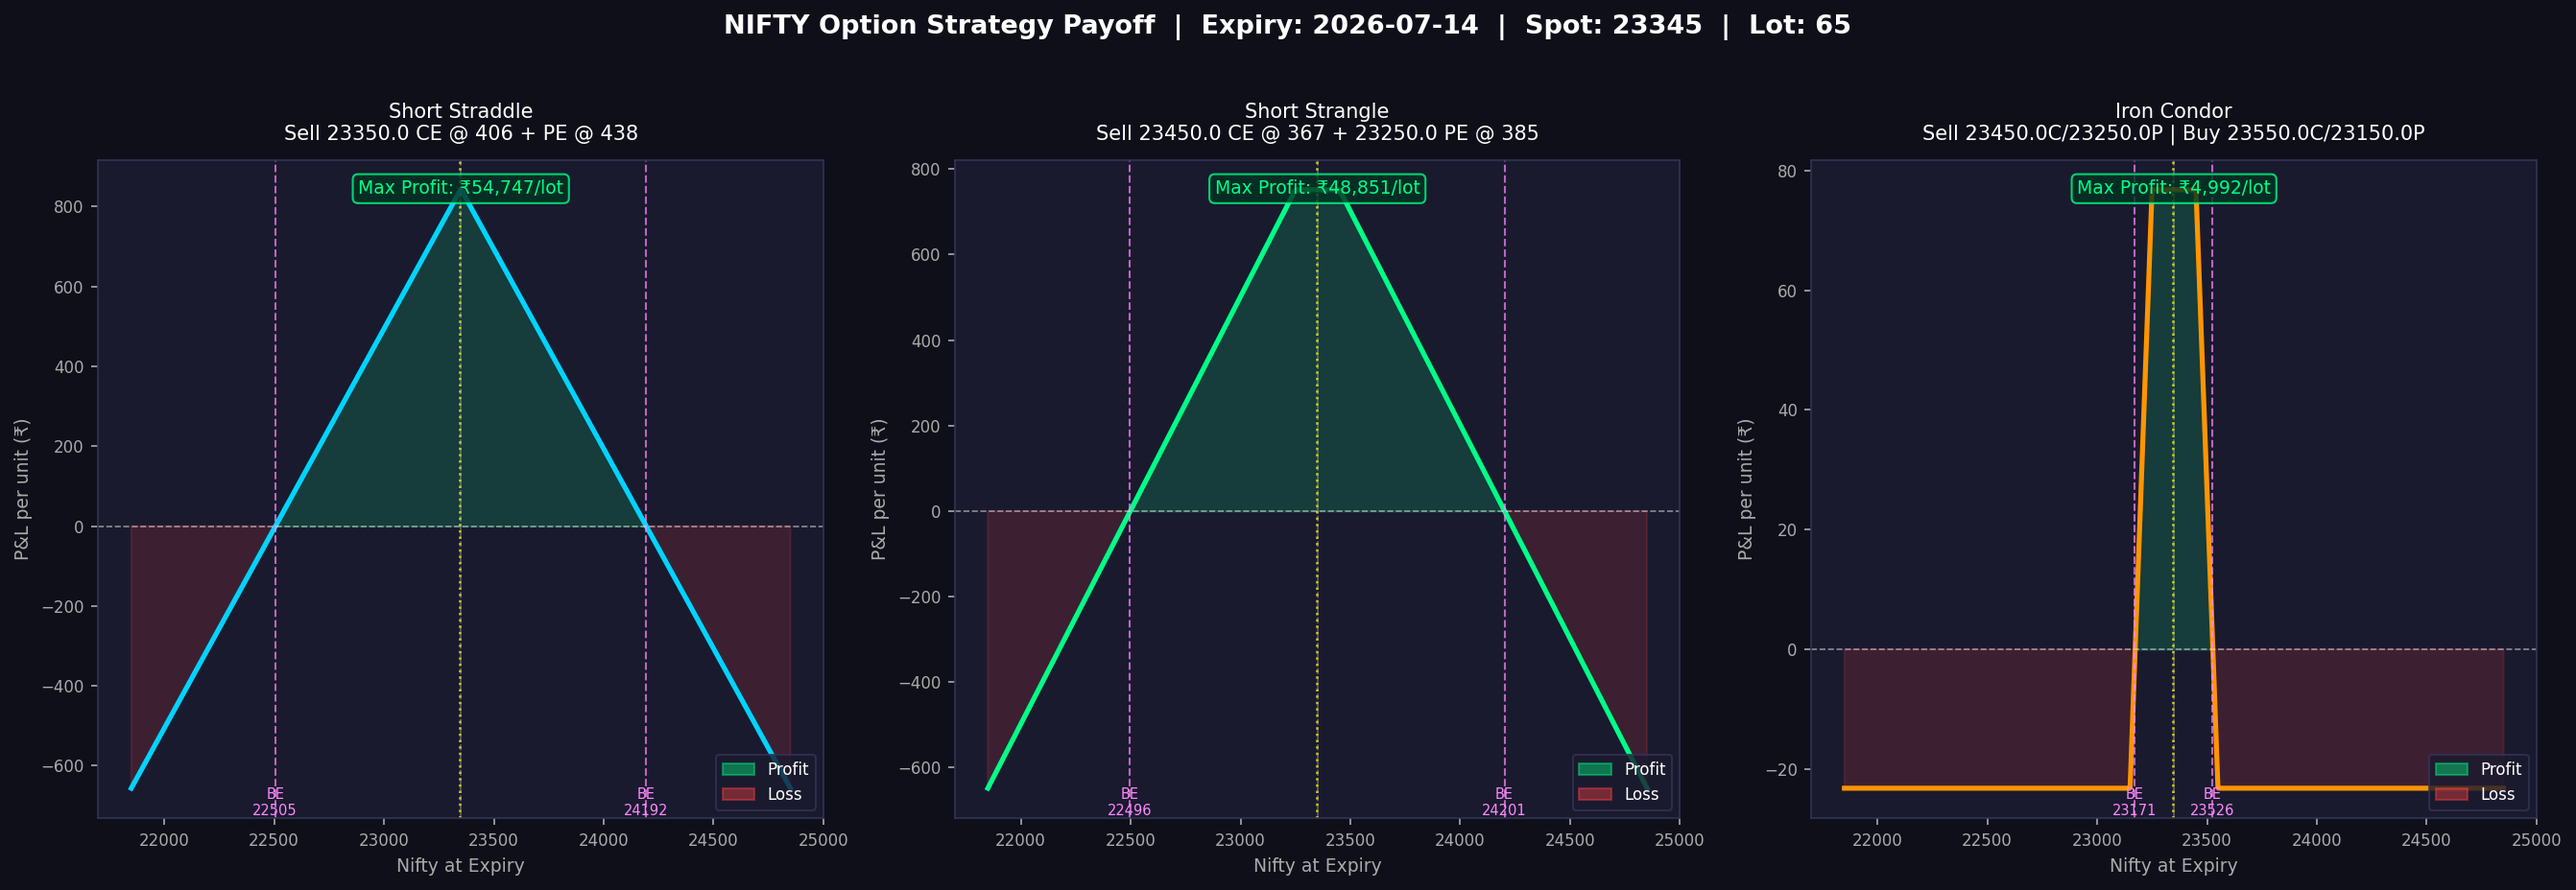
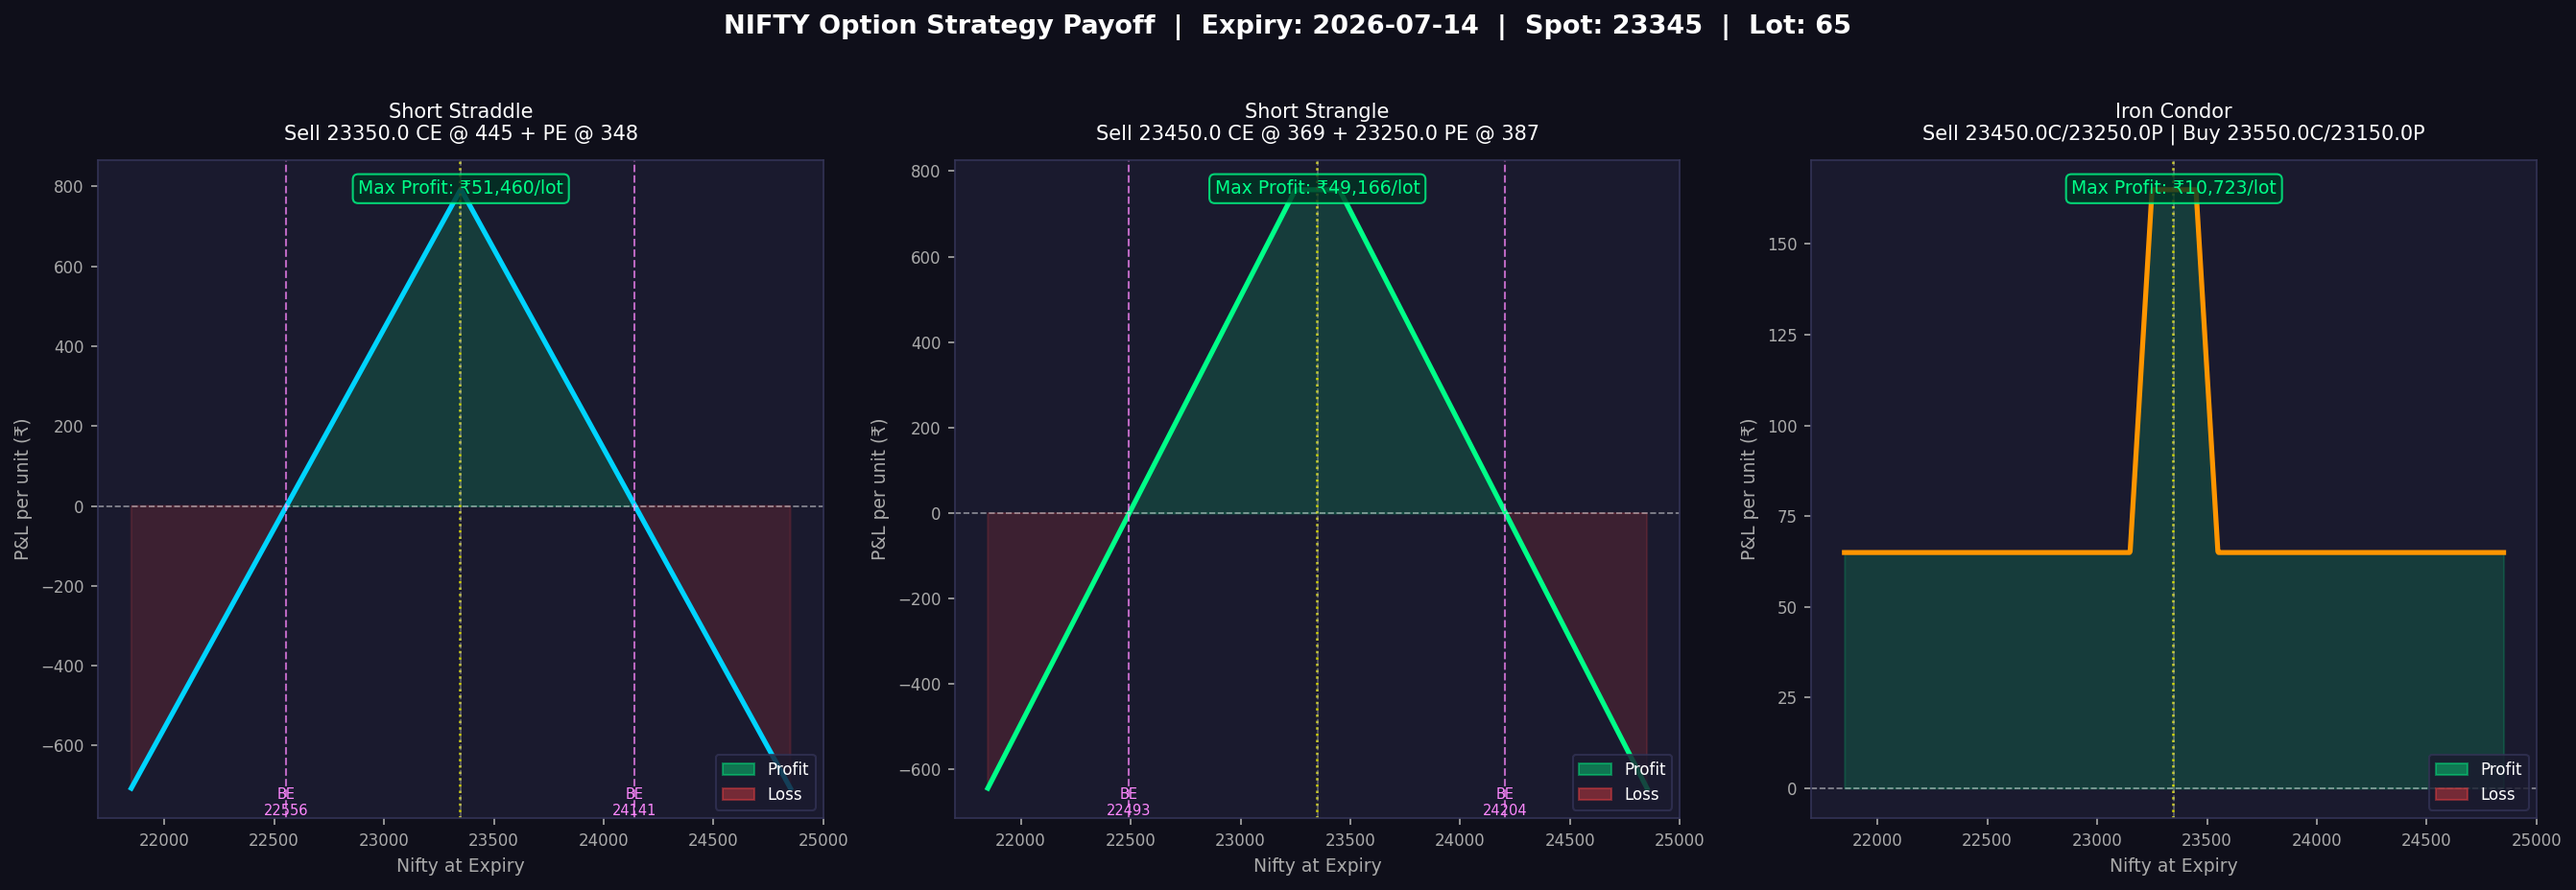
Dynamic Option Chain Analyzer with PCR

diff --git a/dynamic_option_chain.py b/dynamic_option_chain.py
@@ -1,0 +1,108 @@
+import requests
+from config import ACCESS_TOKEN
+
+headers = {
+    "Authorization": f"Bearer {ACCESS_TOKEN}",
+    "Accept"       : "application/json"
+}
+
+# ── SETTINGS ──────────────────────────────────────────────
+UNDERLYING_KEY = "NSE_INDEX|Nifty 50"
+EXPIRY         = "2026-07-14"
+NUM_STRIKES    = 5
+
+# ── Step 1: Spot price ────────────────────────────────────
+quote_url = "https://api.upstox.com/v2/market-quote/quotes"
+spot_resp = requests.get(quote_url, headers=headers, params={"instrument_key": UNDERLYING_KEY})
+spot_data = spot_resp.json()['data']
+spot_key  = list(spot_data.keys())[0]
+spot      = spot_data[spot_key]['last_price']
+
+print(f"Spot Price: {spot}")
+
+# ── Step 2: Contracts ─────────────────────────────────────
+contract_url  = "https://api.upstox.com/v2/option/contract"
+contract_resp = requests.get(contract_url, headers=headers, params={"instrument_key": UNDERLYING_KEY})
+contracts = contract_resp.json()['data']
+
+# ── Step 3: Filter ─────────────────────────────────────────
+filtered = [c for c in contracts if c['expiry'] == EXPIRY]
+calls    = {c['strike_price']: c for c in filtered if c['instrument_type'] == 'CE'}
+puts     = {c['strike_price']: c for c in filtered if c['instrument_type'] == 'PE'}
+strikes  = sorted(set(calls.keys()) & set(puts.keys()))
+
+# ── Step 4: ATM ──────────────────────────────────────────
+atm_strike = min(strikes, key=lambda x: abs(x - spot))
+atm_index  = strikes.index(atm_strike)
+nearby     = strikes[max(0, atm_index-NUM_STRIKES) : atm_index+NUM_STRIKES+1]
+
+print(f"ATM Strike: {atm_strike}")
+print(f"Strikes selected: {nearby}\n")
+
+# ── Step 5: Keys collect ──────────────────────────────────
+all_keys = []
+for strike in nearby:
+    if strike in calls: all_keys.append(calls[strike]['instrument_key'])
+    if strike in puts:  all_keys.append(puts[strike]['instrument_key'])
+
+# ── Step 6: Live data ──────────────────────────────────────
+data_resp  = requests.get(quote_url, headers=headers, params={"instrument_key": ",".join(all_keys)})
+quote_data = data_resp.json()['data']
+
+def get_info(instrument_key):
+    for sym, info in quote_data.items():
+        if info['instrument_token'] == instrument_key:
+            return info
+    return None
+
+# ── Step 7: Table ────────────────────────────────────────
+print("=" * 70)
+print(f"  OPTION CHAIN — {UNDERLYING_KEY}  |  Expiry: {EXPIRY}")
+print(f"  Spot: {spot}  |  ATM: {atm_strike}")
+print("=" * 70)
+print(f"{'Strike':>8} | {'CE LTP':>8} | {'CE OI':>8} | {'PE LTP':>8} | {'PE OI':>8}")
+print("-" * 70)
+
+total_ce_oi = 0
+total_pe_oi = 0
+max_ce_oi_strike = max_pe_oi_strike = None
+max_ce_oi = max_pe_oi = 0
+
+for strike in nearby:
+    ce_info = get_info(calls[strike]['instrument_key']) if strike in calls else None
+    pe_info = get_info(puts[strike]['instrument_key'])  if strike in puts  else None
+
+    ce_ltp = ce_info['last_price'] if ce_info else 0
+    ce_oi  = ce_info['oi']         if ce_info else 0
+    pe_ltp = pe_info['last_price'] if pe_info else 0
+    pe_oi  = pe_info['oi']         if pe_info else 0
+
+    total_ce_oi += ce_oi
+    total_pe_oi += pe_oi
+
+    if ce_oi > max_ce_oi:
+        max_ce_oi, max_ce_oi_strike = ce_oi, strike
+    if pe_oi > max_pe_oi:
+        max_pe_oi, max_pe_oi_strike = pe_oi, strike
+
+    atm_tag = " <- ATM" if strike == atm_strike else ""
+    print(f"{strike:>8.0f} | {ce_ltp:>8} | {ce_oi:>8} | {pe_ltp:>8} | {pe_oi:>8}{atm_tag}")
+
+print("=" * 70)
+
+# ── Step 8: PCR + Support/Resistance ──────────────────────
+pcr = total_pe_oi / total_ce_oi if total_ce_oi > 0 else 0
+
+if pcr > 1.2:
+    sentiment = "Bearish (bounce possible)"
+elif pcr < 0.8:
+    sentiment = "Bullish (fall possible)"
+else:
+    sentiment = "Neutral"
+
+print(f"\nTotal CE OI : {total_ce_oi}")
+print(f"Total PE OI : {total_pe_oi}")
+print(f"PCR         : {pcr:.2f}")
+print(f"Sentiment   : {sentiment}")
+print(f"\nResistance (Max CE OI) : {max_ce_oi_strike} ({max_ce_oi})")
+print(f"Support    (Max PE OI) : {max_pe_oi_strike} ({max_pe_oi})")

diff --git a/Real_OPtion_chain.py b/Real_OPtion_chain.py
@@ -1,0 +1,95 @@
+import requests
+from config import ACCESS_TOKEN
+
+headers = {
+    "Authorization": f"Bearer {ACCESS_TOKEN}",
+    "Accept"       : "application/json"
+}
+
+# ── 5 strikes ke instrument keys (humne pehle dhundhe the) ─
+strikes_data = {
+    23250: {"CE": "NSE_FO|51337", "PE": "NSE_FO|51338"},
+    23300: {"CE": "NSE_FO|51339", "PE": "NSE_FO|51340"},
+    23350: {"CE": "NSE_FO|51341", "PE": "NSE_FO|51342"},
+    23400: {"CE": "NSE_FO|51343", "PE": "NSE_FO|51344"},
+    23450: {"CE": "NSE_FO|51345", "PE": "NSE_FO|51346"},
+}
+
+# ── Saari keys ek list mein ───────────────────────────────
+all_keys = []
+for strike, opts in strikes_data.items():
+    all_keys.append(opts["CE"])
+    all_keys.append(opts["PE"])
+
+# ── Ek hi call mein sab fetch karo ────────────────────────
+url    = "https://api.upstox.com/v2/market-quote/quotes"
+params = {"instrument_key": ",".join(all_keys)}
+
+response = requests.get(url, headers=headers, params=params)
+data     = response.json()['data']
+
+# ── Table print karo ───────────────────────────────────────
+print("=" * 60)
+print(f"{'Strike':>8} | {'CE LTP':>8} | {'CE OI':>8} | {'PE LTP':>8} | {'PE OI':>8}")
+print("-" * 60)
+
+for strike, opts in strikes_data.items():
+    ce_symbol = opts["CE"].replace("NSE_FO|", "NSE_FO:")
+    pe_symbol = opts["PE"].replace("NSE_FO|", "NSE_FO:")
+
+    # Data mein symbol naam se key milegi — dhundhna padega
+    ce_info = None
+    pe_info = None
+    for sym, info in data.items():
+        if info['instrument_token'] == opts["CE"]:
+            ce_info = info
+        if info['instrument_token'] == opts["PE"]:
+            pe_info = info
+
+    ce_ltp = ce_info['last_price'] if ce_info else "N/A"
+    ce_oi  = ce_info['oi']         if ce_info else "N/A"
+    pe_ltp = pe_info['last_price'] if pe_info else "N/A"
+    pe_oi  = pe_info['oi']         if pe_info else "N/A"
+
+    print(f"{strike:>8} | {str(ce_ltp):>8} | {str(ce_oi):>8} | {str(pe_ltp):>8} | {str(pe_oi):>8}")
+
+print("=" * 60)
+# ── PCR aur Support/Resistance ────────────────────────────
+total_ce_oi = 0
+total_pe_oi = 0
+max_ce_oi_strike = None
+max_pe_oi_strike = None
+max_ce_oi = 0
+max_pe_oi = 0
+
+for strike, opts in strikes_data.items():
+    for sym, info in data.items():
+        if info['instrument_token'] == opts["CE"]:
+            oi = info['oi']
+            total_ce_oi += oi
+            if oi > max_ce_oi:
+                max_ce_oi = oi
+                max_ce_oi_strike = strike
+        if info['instrument_token'] == opts["PE"]:
+            oi = info['oi']
+            total_pe_oi += oi
+            if oi > max_pe_oi:
+                max_pe_oi = oi
+                max_pe_oi_strike = strike
+
+pcr = total_pe_oi / total_ce_oi if total_ce_oi > 0 else 0
+
+print(f"\nTotal CE OI : {total_ce_oi}")
+print(f"Total PE OI : {total_pe_oi}")
+print(f"PCR         : {pcr:.2f}")
+
+if pcr > 1.2:
+    sentiment = "Bearish (lekin bounce possible)"
+elif pcr < 0.8:
+    sentiment = "Bullish (lekin fall possible)"
+else:
+    sentiment = "Neutral"
+
+print(f"Sentiment   : {sentiment}")
+print(f"\nResistance (Max CE OI) : {max_ce_oi_strike} ({max_ce_oi})")
+print(f"Support    (Max PE OI) : {max_pe_oi_strike} ({max_pe_oi})")

diff --git a/step1_premium.py b/step1_premium.py
@@ -1,0 +1,41 @@
+import requests
+from config import ACCESS_TOKEN
+
+headers = {
+    "Authorization": f"Bearer {ACCESS_TOKEN}",
+    "Accept"       : "application/json"
+}
+
+ce_key = "NSE_FO|51341"   # 23350 CE
+pe_key = "NSE_FO|51342"   # 23350 PE
+
+url    = "https://api.upstox.com/v2/market-quote/quotes"
+params = {"instrument_key": f"{ce_key},{pe_key}"}
+
+response = requests.get(url, headers=headers, params=params)
+data     = response.json()['data']
+
+# ── Clean Output ──────────────────────────────────────────
+print("=" * 50)
+print("   NIFTY 23350 — ATM Option Data")
+print("=" * 50)
+
+for symbol, info in data.items():
+    option_type = "CALL (CE)" if "CE" in symbol else "PUT (PE)"
+    
+    print(f"\n{option_type}")
+    print(f"  Symbol      : {symbol}")
+    print(f"  LTP         : Rs. {info['last_price']}")
+    print(f"  Open        : Rs. {info['ohlc']['open']}")
+    print(f"  High        : Rs. {info['ohlc']['high']}")
+    print(f"  Low         : Rs. {info['ohlc']['low']}")
+    print(f"  OI          : {info['oi']}")
+    print(f"  Volume      : {info['volume']}")
+    print(f"  Net Change  : {info['net_change']}")
+    
+    best_bid = info['depth']['buy'][0]['price']
+    best_ask = info['depth']['sell'][0]['price']
+    print(f"  Best Bid    : Rs. {best_bid}")
+    print(f"  Best Ask    : Rs. {best_ask}")
+
+print("\n" + "=" * 50)
